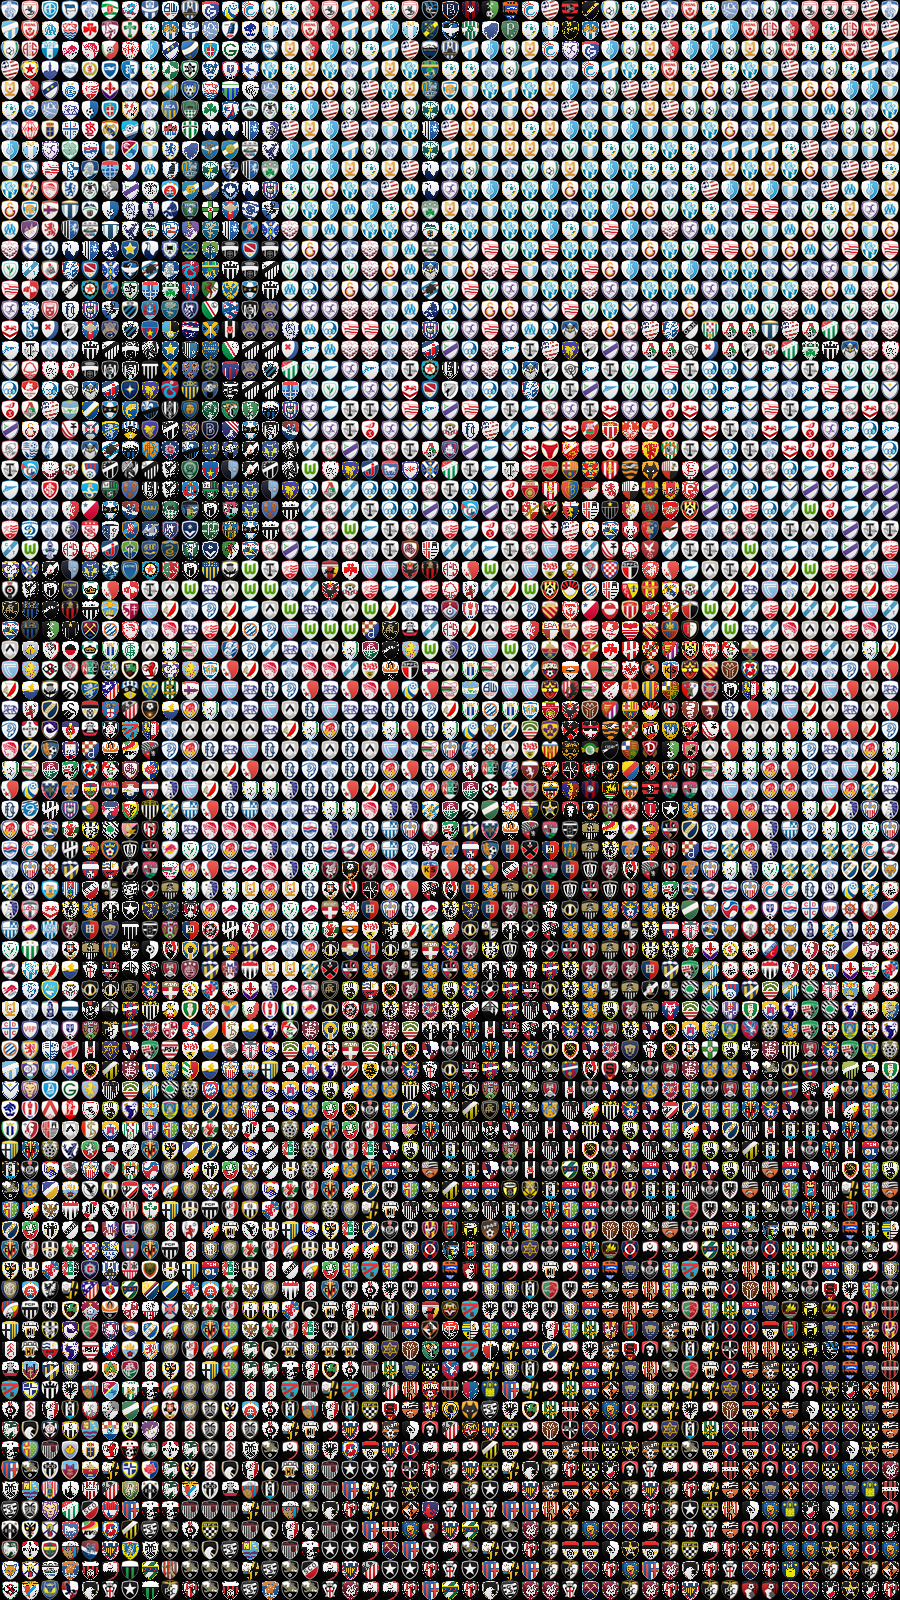
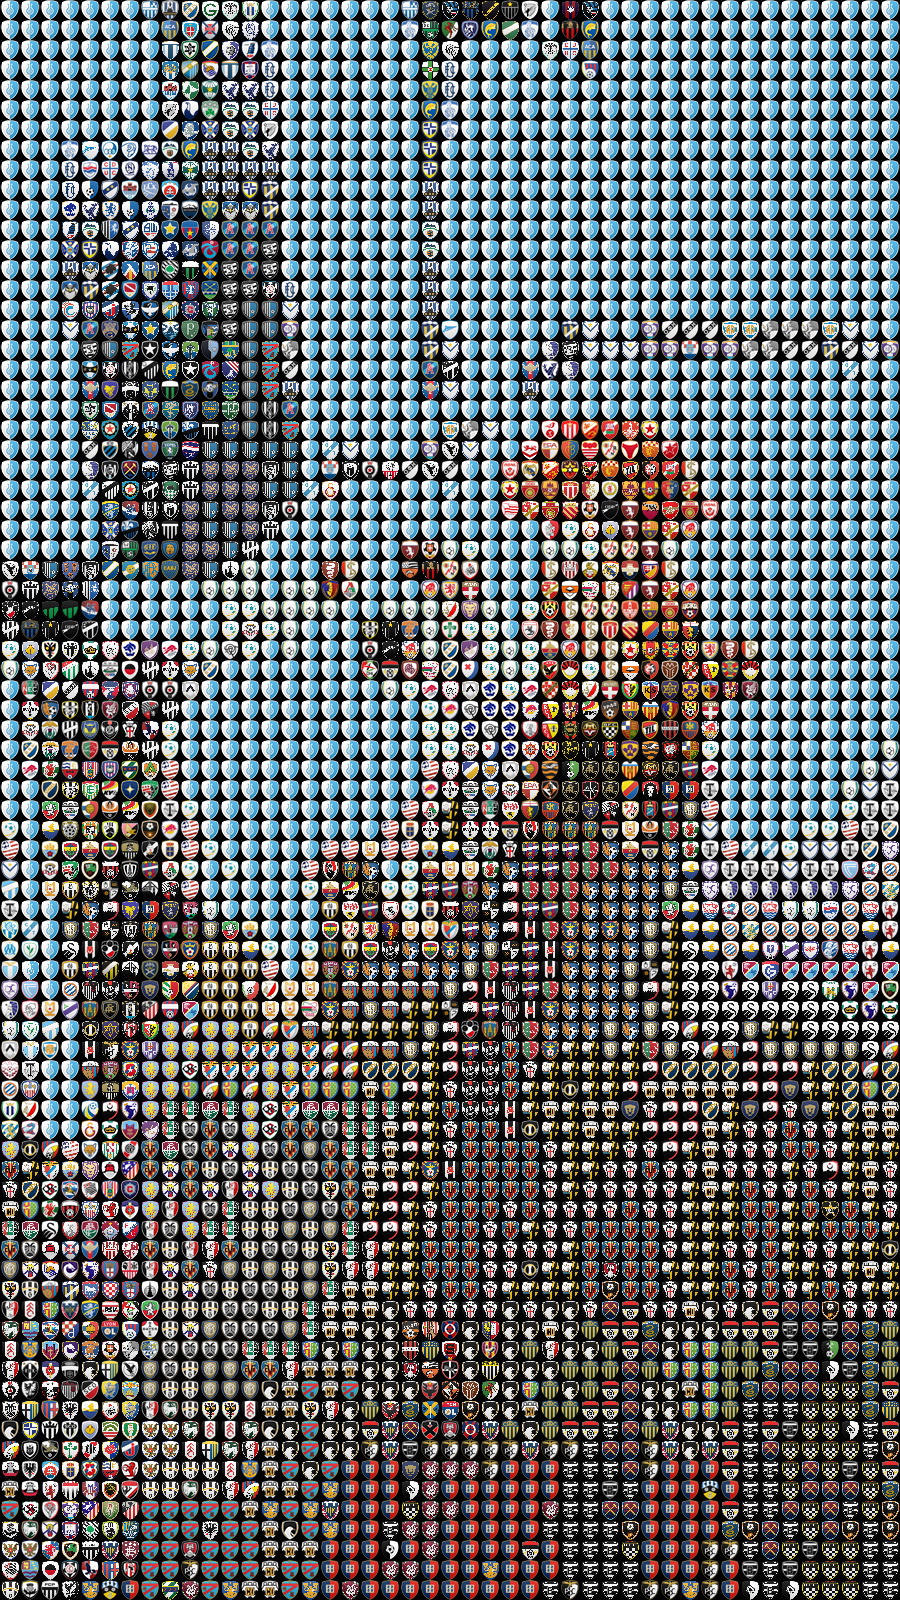
0039 Refactored setting of grid size

diff --git a/Mosaic/Mosaic.WebUI/Mosaic.WebUI/wwwroot/css/site.min.css b/Mosaic/Mosaic.WebUI/Mosaic.WebUI/wwwroot/css/site.min.css
@@ -1,1 +1,1 @@
-body{padding-top:50px;padding-bottom:20px}.body-content{padding-left:15px;padding-right:15px}.carousel-caption p{font-size:20px;line-height:1.4}.carousel-inner .item img[src$=".svg"]{width:100%}#qrCode{margin:15px}@media screen and (max-width:767px){.carousel-caption{display:none}}.index-content a:hover{color:#000;text-decoration:none}.index-content{margin-bottom:20px;padding:50px 0}.index-content .row{margin-top:20px}.index-content a{color:#000}.index-content .card{background-color:#fff;padding:0;-webkit-border-radius:4px;-moz-border-radius:4px;border-radius:4px;box-shadow:0 4px 5px 0 rgba(0,0,0,.14),0 1px 10px 0 rgba(0,0,0,.12),0 2px 4px -1px rgba(0,0,0,.3)}.index-content .card:hover{box-shadow:0 16px 24px 2px rgba(0,0,0,.14),0 6px 30px 5px rgba(0,0,0,.12),0 8px 10px -5px rgba(0,0,0,.3);color:#000}.index-content .card img{width:100%;border-top-left-radius:4px;border-top-right-radius:4px}.index-content .card h4{margin:20px}.index-content .card p{margin:20px;opacity:.65}.index-content .col-lg-4{padding-bottom:15px}.index-content .blue-button{width:100px;-webkit-transition:background-color 1s,color 1s;transition:background-color 1s,color 1s;min-height:20px;background-color:#002e5b;color:#fff;border-radius:4px;text-align:center;font-weight:lighter;margin:0 20px 15px 20px;padding:5px 0;display:inline-block}.index-content .blue-button:hover{background-color:#dadada;color:#002e5b}@media(max-width:768px){.index-content .col-lg-4{margin-top:20px}}.project-table{border-collapse:separate;padding-bottom:10px;padding-top:10px}.project-table th{padding-left:10px;padding-right:10px}#project-container{padding-left:0;padding-right:0;margin-right:0;max-width:1140px}.master-image{width:50%;float:right}.card img{object-fit:cover;max-height:200px}.piechart-info{text-align:center}#myCanvas{width:100%}#myMasterCanvas{width:100%}
+body{padding-top:50px;padding-bottom:20px}.body-content{padding-left:15px;padding-right:15px}.carousel-caption p{font-size:20px;line-height:1.4}.carousel-inner .item img[src$=".svg"]{width:100%}#qrCode{margin:15px}@media screen and (max-width:767px){.carousel-caption{display:none}}.index-content a:hover{color:#000;text-decoration:none}.index-content{margin-bottom:20px;padding:50px 0}.index-content .row{margin-top:20px}.index-content a{color:#000}.index-content .card{background-color:#fff;padding:0;-webkit-border-radius:4px;-moz-border-radius:4px;border-radius:4px;box-shadow:0 4px 5px 0 rgba(0,0,0,.14),0 1px 10px 0 rgba(0,0,0,.12),0 2px 4px -1px rgba(0,0,0,.3)}.index-content .card:hover{box-shadow:0 16px 24px 2px rgba(0,0,0,.14),0 6px 30px 5px rgba(0,0,0,.12),0 8px 10px -5px rgba(0,0,0,.3);color:#000}.index-content .card img{width:100%;border-top-left-radius:4px;border-top-right-radius:4px}.index-content .card h4{margin:20px}.index-content .card p{margin:20px;opacity:.65}.index-content .col-lg-4{padding-bottom:15px}.index-content .blue-button{width:100px;-webkit-transition:background-color 1s,color 1s;transition:background-color 1s,color 1s;min-height:20px;background-color:#002e5b;color:#fff;border-radius:4px;text-align:center;font-weight:lighter;margin:0 20px 15px 20px;padding:5px 0;display:inline-block}.index-content .blue-button:hover{background-color:#dadada;color:#002e5b}@media(max-width:768px){.index-content .col-lg-4{margin-top:20px}}.project-table{border-collapse:separate;padding-bottom:10px;padding-top:10px}.project-table th{padding-left:10px;padding-right:10px}#project-container{padding-left:0;padding-right:0;margin-right:0;max-width:1140px}.master-image{width:50%;float:right}.card img{object-fit:cover;max-height:200px}.piechart-info{text-align:center}#myCanvas{width:100%}#myMasterCanvas{width:100%}.tile-size-row{margin-left:0;margin-bottom:10px;margin-right:0;margin-top:0}.select-tile-size li{text-align:center;cursor:pointer}

diff --git a/Mosaic/Mosaic.WebUI/Mosaic.WebUI/wwwroot/js/GridImage.js b/Mosaic/Mosaic.WebUI/Mosaic.WebUI/wwwroot/js/GridImage.js
@@ -3,6 +3,7 @@ var ctxImage = can.getContext("2d");
 var im = new Image();
 var showGrid = true;
 var container = document.getElementById("image-container");
+var currentSeparation = 10;
 
 var gridOptions = {
     minorLines: {
@@ -37,6 +38,15 @@ function toggleGrid() {
 
 function drawResize() {
     im.onload();
+}
+
+function setSeparation(separation) {
+    currentSeparation = separation;
+    gridOptions.minorLines.separation = separation;
+}
+
+function getSeparation() {
+    return currentSeparation;
 }
 
 function drawImage() {

diff --git a/Mosaic/Mosaic.WebUI/ImageMosaicService/ImageProcessing.cs b/Mosaic/Mosaic.WebUI/ImageMosaicService/ImageProcessing.cs
@@ -79,8 +79,8 @@ namespace ImageMosaicService
 
         public Color[,] CreateMap(Bitmap img)
         {
-            int horizontalTiles = (int)img.Width / 20;
-            int verticalTiles = (int)img.Height / 20;
+            int horizontalTiles = (int)img.Width / tileSize.Width;
+            int verticalTiles = (int)img.Height / tileSize.Height;
 
             var colorMap = new Color[horizontalTiles, verticalTiles];
 
